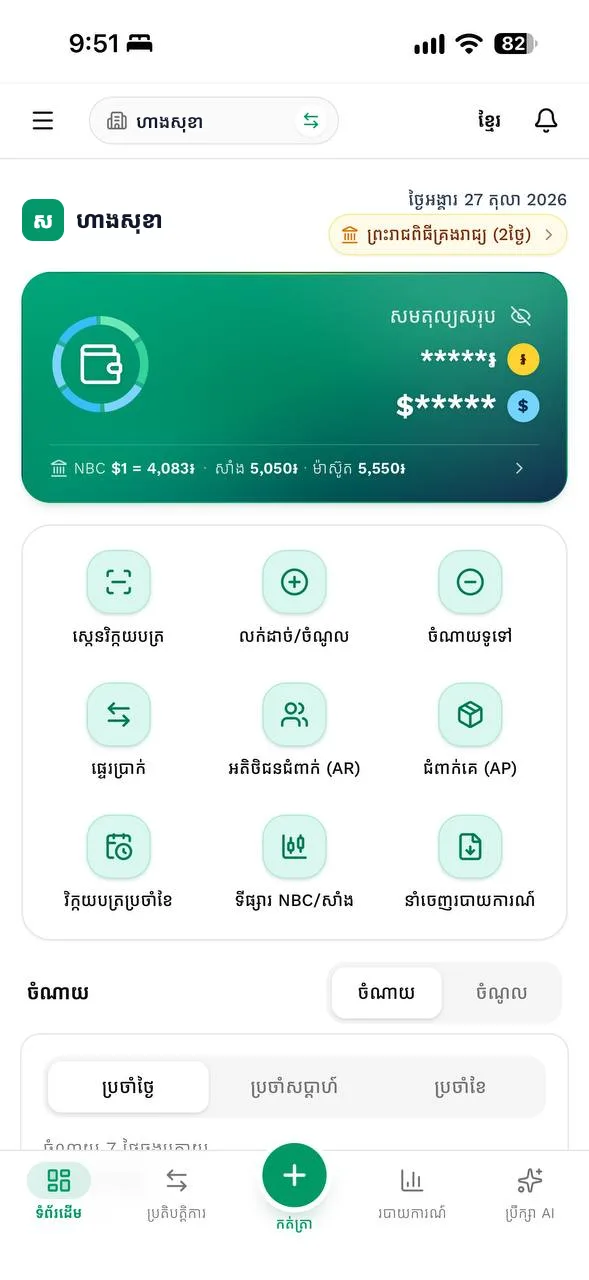
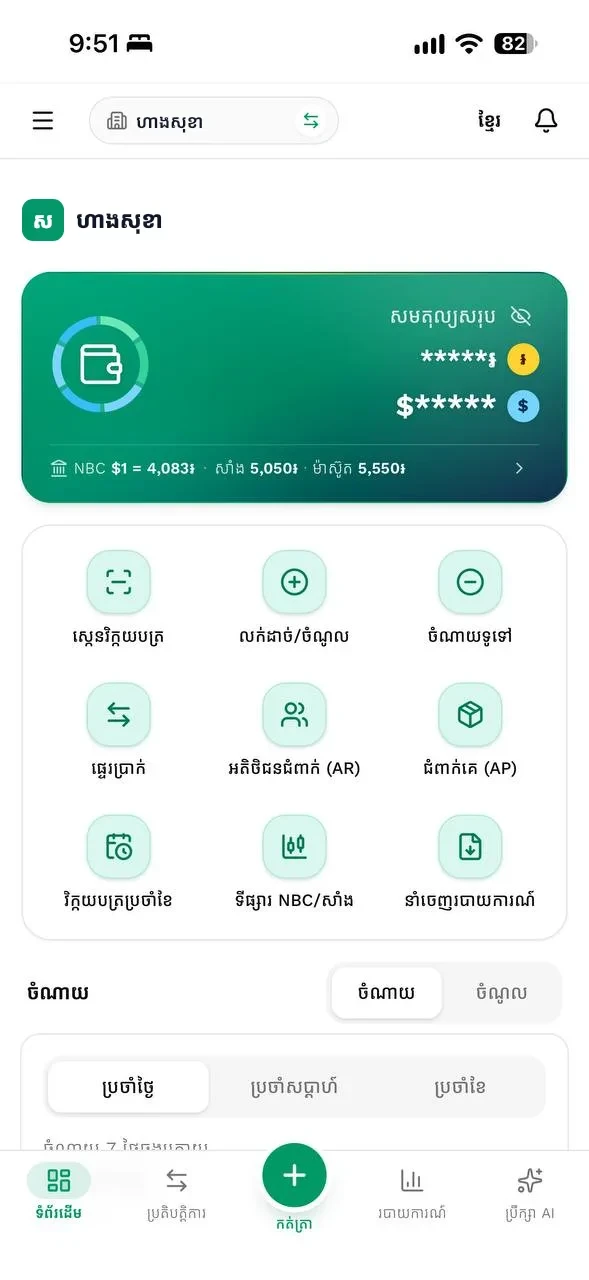
feat(website): the phone shows today's date in the visitor's own calendar and language (the screenshots' baked «27 តុលា» and the dated holiday chip erased), and the footer in three groups — the app, contact, follow us — with the copyright on its own line (founder, 28/10/2026)
Khmer: គេហទំព័រ៖ ទូរសព្ទបង្ហាញថ្ងៃខែបច្ចុប្បន្ន និង footer រៀបជាក្រុមស្អាត

Changed region(s): [[0.5501, 0.125, 0.9779, 0.2188]]

diff --git a/Website/index.html b/Website/index.html
@@ -74,6 +74,8 @@
               <div class="viewport">
               <img class="shot on" src="screen-business.webp" width="589" height="1280" alt="អេប លុយឆ្លាត — ទំព័រដើមអាជីវកម្ម" data-label="biz">
               <img class="shot" src="screen-personal.webp" width="589" height="1280" alt="អេប លុយឆ្លាត — ទំព័រដើមផ្ទាល់ខ្លួន" data-label="me" loading="lazy">
+              <!-- Today's date in the viewer's own calendar, where the app shows it (founder, 28/10/2026 — site.js) -->
+              <span class="ph-date" aria-hidden="true"></span>
               </div>
               <div class="ph-toast" aria-hidden="true">
                 <span class="dot">🔊</span>
@@ -350,14 +352,25 @@
         <img src="logo.png" alt="" width="36" height="36">
         <span><b>អេប លុយឆ្លាត</b><small>App Luy Chlat</small></span>
       </div>
-      <nav aria-label="Footer">
-        <a href="privacy.html" data-i="ft.privacy">ឯកជនភាព និងលក្ខខណ្ឌ</a>
-        <a href="https://app.luychlat.com/download" data-i="ft.download">ទាញយក</a>
-        <a href="https://t.me/LuyChlatCommunity" target="_blank" rel="noopener" data-i="ft.community">សហគមន៍ Telegram</a>
-        <a href="https://www.facebook.com/appluychlat" target="_blank" rel="noopener">Facebook</a>
-        <a href="https://t.me/luychlat_bot" target="_blank" rel="noopener">@luychlat_bot</a>
-        <a href="https://t.me/luychlat_support" target="_blank" rel="noopener" data-i="ft.support">ជំនួយ</a>
-        <a href="mailto:info@luychlat.com">info@luychlat.com</a>
+      <!-- Grouped like an international site's footer (founder, 28/10/2026 — «the footer is scattered») -->
+      <nav class="foot-cols" aria-label="Footer">
+        <div>
+          <h4 data-i="ft.colApp">អេប</h4>
+          <a href="https://app.luychlat.com/download" data-i="ft.download">ទាញយក</a>
+          <a href="https://app.luychlat.com" data-i="ft.open">ចូលប្រើ</a>
+          <a href="privacy.html" data-i="ft.privacy">ឯកជនភាព និងលក្ខខណ្ឌ</a>
+        </div>
+        <div>
+          <h4 data-i="ft.colContact">ទំនាក់ទំនង</h4>
+          <a href="https://t.me/luychlat_support" target="_blank" rel="noopener" data-i="ft.support">ជំនួយ</a>
+          <a href="mailto:info@luychlat.com">info@luychlat.com</a>
+        </div>
+        <div>
+          <h4 data-i="ft.colFollow">តាមដានយើង</h4>
+          <a href="https://www.facebook.com/appluychlat" target="_blank" rel="noopener">Facebook</a>
+          <a href="https://t.me/LuyChlatCommunity" target="_blank" rel="noopener" data-i="ft.community">សហគមន៍ Telegram</a>
+          <a href="https://t.me/luychlat_bot" target="_blank" rel="noopener">@luychlat_bot</a>
+        </div>
       </nav>
       <p class="copy">© 2026 App Luy Chlat · iBMS · <span data-i="ft.rights">រក្សាសិទ្ធិគ្រប់យ៉ាង</span></p>
     </div>
@@ -373,6 +386,7 @@
 
   <!-- Cloudflare Web Analytics (cookieless) — the website only, never the app -->
   <script defer="" src="https://static.cloudflareinsights.com/beacon.min.js" data-cf-beacon="{&quot;token&quot;: &quot;d414eab13d024a1aade4e9fc8f5ddf1f&quot;}"></script>
+
 
 
 

diff --git a/Website/en/index.html b/Website/en/index.html
@@ -74,6 +74,8 @@
               <div class="viewport">
               <img class="shot on" src="../screen-business.webp" width="589" height="1280" alt="អេប លុយឆ្លាត — ទំព័រដើមអាជីវកម្ម" data-label="biz">
               <img class="shot" src="../screen-personal.webp" width="589" height="1280" alt="អេប លុយឆ្លាត — ទំព័រដើមផ្ទាល់ខ្លួន" data-label="me" loading="lazy">
+              <!-- Today's date in the viewer's own calendar, where the app shows it (founder, 28/10/2026 — site.js) -->
+              <span class="ph-date" aria-hidden="true"></span>
               </div>
               <div class="ph-toast" aria-hidden="true">
                 <span class="dot">🔊</span>
@@ -350,14 +352,25 @@
         <img src="../logo.png" alt="" width="36" height="36">
         <span><b>អេប លុយឆ្លាត</b><small>App Luy Chlat</small></span>
       </div>
-      <nav aria-label="Footer">
-        <a href="../privacy.html" data-i="ft.privacy">Privacy and terms</a>
-        <a href="https://app.luychlat.com/download" data-i="ft.download">Download</a>
-        <a href="https://t.me/LuyChlatCommunity" target="_blank" rel="noopener" data-i="ft.community">Telegram community</a>
-        <a href="https://www.facebook.com/appluychlat" target="_blank" rel="noopener">Facebook</a>
-        <a href="https://t.me/luychlat_bot" target="_blank" rel="noopener">@luychlat_bot</a>
-        <a href="https://t.me/luychlat_support" target="_blank" rel="noopener" data-i="ft.support">Support</a>
-        <a href="mailto:info@luychlat.com">info@luychlat.com</a>
+      <!-- Grouped like an international site's footer (founder, 28/10/2026 — «the footer is scattered») -->
+      <nav class="foot-cols" aria-label="Footer">
+        <div>
+          <h4 data-i="ft.colApp">App</h4>
+          <a href="https://app.luychlat.com/download" data-i="ft.download">Download</a>
+          <a href="https://app.luychlat.com" data-i="ft.open">Open the app</a>
+          <a href="../privacy.html" data-i="ft.privacy">Privacy and terms</a>
+        </div>
+        <div>
+          <h4 data-i="ft.colContact">Contact</h4>
+          <a href="https://t.me/luychlat_support" target="_blank" rel="noopener" data-i="ft.support">Support</a>
+          <a href="mailto:info@luychlat.com">info@luychlat.com</a>
+        </div>
+        <div>
+          <h4 data-i="ft.colFollow">Follow us</h4>
+          <a href="https://www.facebook.com/appluychlat" target="_blank" rel="noopener">Facebook</a>
+          <a href="https://t.me/LuyChlatCommunity" target="_blank" rel="noopener" data-i="ft.community">Telegram community</a>
+          <a href="https://t.me/luychlat_bot" target="_blank" rel="noopener">@luychlat_bot</a>
+        </div>
       </nav>
       <p class="copy">© 2026 App Luy Chlat · iBMS · <span data-i="ft.rights">All rights reserved</span></p>
     </div>
@@ -373,6 +386,7 @@
 
   <!-- Cloudflare Web Analytics (cookieless) — the website only, never the app -->
   <script defer="" src="https://static.cloudflareinsights.com/beacon.min.js" data-cf-beacon="{&quot;token&quot;: &quot;d414eab13d024a1aade4e9fc8f5ddf1f&quot;}"></script>
+
 
 
 

diff --git a/Website/zh/index.html b/Website/zh/index.html
@@ -74,6 +74,8 @@
               <div class="viewport">
               <img class="shot on" src="../screen-business.webp" width="589" height="1280" alt="អេប លុយឆ្លាត — ទំព័រដើមអាជីវកម្ម" data-label="biz">
               <img class="shot" src="../screen-personal.webp" width="589" height="1280" alt="អេប លុយឆ្លាត — ទំព័រដើមផ្ទាល់ខ្លួន" data-label="me" loading="lazy">
+              <!-- Today's date in the viewer's own calendar, where the app shows it (founder, 28/10/2026 — site.js) -->
+              <span class="ph-date" aria-hidden="true"></span>
               </div>
               <div class="ph-toast" aria-hidden="true">
                 <span class="dot">🔊</span>
@@ -350,14 +352,25 @@
         <img src="../logo.png" alt="" width="36" height="36">
         <span><b>អេប លុយឆ្លាត</b><small>App Luy Chlat</small></span>
       </div>
-      <nav aria-label="Footer">
-        <a href="../privacy.html" data-i="ft.privacy">隐私与条款</a>
-        <a href="https://app.luychlat.com/download" data-i="ft.download">下载</a>
-        <a href="https://t.me/LuyChlatCommunity" target="_blank" rel="noopener" data-i="ft.community">Telegram 社区</a>
-        <a href="https://www.facebook.com/appluychlat" target="_blank" rel="noopener">Facebook</a>
-        <a href="https://t.me/luychlat_bot" target="_blank" rel="noopener">@luychlat_bot</a>
-        <a href="https://t.me/luychlat_support" target="_blank" rel="noopener" data-i="ft.support">客服</a>
-        <a href="mailto:info@luychlat.com">info@luychlat.com</a>
+      <!-- Grouped like an international site's footer (founder, 28/10/2026 — «the footer is scattered») -->
+      <nav class="foot-cols" aria-label="Footer">
+        <div>
+          <h4 data-i="ft.colApp">应用</h4>
+          <a href="https://app.luychlat.com/download" data-i="ft.download">下载</a>
+          <a href="https://app.luychlat.com" data-i="ft.open">打开应用</a>
+          <a href="../privacy.html" data-i="ft.privacy">隐私与条款</a>
+        </div>
+        <div>
+          <h4 data-i="ft.colContact">联系我们</h4>
+          <a href="https://t.me/luychlat_support" target="_blank" rel="noopener" data-i="ft.support">客服</a>
+          <a href="mailto:info@luychlat.com">info@luychlat.com</a>
+        </div>
+        <div>
+          <h4 data-i="ft.colFollow">关注我们</h4>
+          <a href="https://www.facebook.com/appluychlat" target="_blank" rel="noopener">Facebook</a>
+          <a href="https://t.me/LuyChlatCommunity" target="_blank" rel="noopener" data-i="ft.community">Telegram 社区</a>
+          <a href="https://t.me/luychlat_bot" target="_blank" rel="noopener">@luychlat_bot</a>
+        </div>
       </nav>
       <p class="copy">© 2026 App Luy Chlat · iBMS · <span data-i="ft.rights">版权所有</span></p>
     </div>
@@ -373,6 +386,7 @@
 
   <!-- Cloudflare Web Analytics (cookieless) — the website only, never the app -->
   <script defer="" src="https://static.cloudflareinsights.com/beacon.min.js" data-cf-beacon="{&quot;token&quot;: &quot;d414eab13d024a1aade4e9fc8f5ddf1f&quot;}"></script>
+
 
 
 

diff --git a/Website/site.css b/Website/site.css
@@ -300,12 +300,22 @@ details a { color: var(--brand); }
 
 /* Footer */
 .foot { padding: 36px 0 calc(36px + env(safe-area-inset-bottom)); border-top: 1px solid var(--line); }
-.foot-in { display: grid; gap: 18px; }
-.foot nav { display: flex; flex-wrap: wrap; gap: 8px 20px; }
+.foot-in { display: grid; gap: 24px; }
+/* Three groups (founder, 28/10/2026 — «scattered»): the app, contact, follow us; the copyright its own line below. */
+.foot-cols { display: grid; grid-template-columns: repeat(2, minmax(0, 1fr)); gap: 20px 24px; }
+.foot-cols div { display: grid; align-content: start; gap: 2px; }
+.foot-cols h4 { margin: 0 0 4px; font-size: .78rem; font-weight: 700; letter-spacing: .06em; text-transform: uppercase; color: var(--ink); }
 .foot nav a { color: var(--muted); text-decoration: none; min-height: 32px; display: inline-flex; align-items: center; }
 .foot nav a:hover { color: var(--brand); }
+.foot .copy { margin: 0; padding-top: 18px; border-top: 1px solid var(--line); }
+/* The other pages' short footer (a few links in a row). */
+.foot nav:not(.foot-cols) { display: flex; flex-wrap: wrap; gap: 8px 20px; align-content: start; }
 .copy { color: var(--muted); font-size: .85rem; }
-@media (min-width: 900px) { .foot-in { grid-template-columns: auto 1fr auto; align-items: center; } .foot nav { justify-content: center; } }
+@media (min-width: 900px) {
+  .foot-in { grid-template-columns: 1fr 2fr; align-items: start; }
+  .foot-cols { grid-template-columns: repeat(3, minmax(0, 1fr)); }
+  .foot .copy { grid-column: 1 / -1; }
+}
 
 /* Legal pages */
 .doc { padding: 40px 0 72px; }
@@ -372,6 +382,9 @@ details a { color: var(--brand); }
 .homebar::after { content: ""; position: absolute; left: 50%; top: 9px; width: 34%; height: 4px; margin-left: -17%; border-radius: 4px; background: #111827; opacity: .8; }
 .shot { position: absolute; inset: 0; width: 100%; height: 100%; object-fit: cover; object-position: top; opacity: 0; transition: opacity .8s ease; }
 .shot.on { opacity: 1; }
+/* Today's date, where the app writes it (the screenshots' own was erased): right-aligned under the header. */
+.viewport { container-type: inline-size; }
+.ph-date { position: absolute; z-index: 1; top: 14.25%; right: 3.6%; font: 500 3.35cqw/1.2 "Kantumruy Pro", "Plus Jakarta Sans", sans-serif; color: #374151; white-space: nowrap; }
 .screen.shots .ph-toast { position: absolute; left: 10px; right: 10px; bottom: 14%; z-index: 2; font-size: 12px; }
 .shot-tabs { display: flex; gap: 8px; }
 .shot-tabs span { padding: 5px 12px; border-radius: 999px; font-size: .85rem; color: var(--muted); background: var(--surface); border: 1px solid var(--line); transition: all .3s ease; }

diff --git a/Website/site.js b/Website/site.js
@@ -19,10 +19,28 @@
     });
     document.querySelectorAll("[data-lang]").forEach(function (b) { b.setAttribute("aria-pressed", String(b.getAttribute("data-lang") === lang)); });
     if (window.PAGE_TITLES) document.title = window.PAGE_TITLES[lang] || titles.km;
+    phoneDate(lang);
     setPeriod(period);
   }
 
   var period = "m";
+  // The phone shows today's date in the viewer's own calendar, as the app does (founder, 28/10/2026): «ថ្ងៃពុធ 28 តុលា
+  // 2026» / "Wednesday, 28 October 2026" / "2026年10月28日 星期三" — 0-9 digits, like the app.
+  function phoneDate(lang) {
+    var el = document.querySelector(".ph-date");
+    if (!el) return;
+    var d = new Date();
+    var KM_DAYS = ["អាទិត្យ", "ចន្ទ", "អង្គារ", "ពុធ", "ព្រហស្បតិ៍", "សុក្រ", "សៅរ៍"];
+    var KM_MONTHS = ["មករា", "កុម្ភៈ", "មីនា", "មេសា", "ឧសភា", "មិថុនា", "កក្កដា", "សីហា", "កញ្ញា", "តុលា", "វិច្ឆិកា", "ធ្នូ"];
+    var EN_DAYS = ["Sunday", "Monday", "Tuesday", "Wednesday", "Thursday", "Friday", "Saturday"];
+    var EN_MONTHS = ["January", "February", "March", "April", "May", "June", "July", "August", "September", "October", "November", "December"];
+    var ZH_DAYS = ["星期日", "星期一", "星期二", "星期三", "星期四", "星期五", "星期六"];
+    el.textContent = lang === "en" ? EN_DAYS[d.getDay()] + ", " + d.getDate() + " " + EN_MONTHS[d.getMonth()] + " " + d.getFullYear()
+      : lang === "zh" ? d.getFullYear() + "年" + (d.getMonth() + 1) + "月" + d.getDate() + "日 " + ZH_DAYS[d.getDay()]
+      : "ថ្ងៃ" + KM_DAYS[d.getDay()] + " " + d.getDate() + " " + KM_MONTHS[d.getMonth()] + " " + d.getFullYear();
+  }
+  phoneDate(document.documentElement.lang || "km");
+
   function setPeriod(p) {
     period = p;
     document.querySelectorAll("[data-period]").forEach(function (b) { b.setAttribute("aria-pressed", String(b.getAttribute("data-period") === p)); });

diff --git a/Website/i18n.js b/Website/i18n.js
@@ -113,6 +113,10 @@ window.SITE_T = {
   "tr.c5": "Business and personal, always apart.",
   "tr.c6": "Encrypted data — only you and the people you invite can see it.",
   "tr.c7": "Export your data or delete your account, any time.",
+  "ft.colApp": "App",
+  "ft.open": "Open the app",
+  "ft.colContact": "Contact",
+  "ft.colFollow": "Follow us",
   "tr.readyT": "When something goes wrong, we're ready:",
   "tr.r1": "Phone lost or broken? Tap «🚨 My phone is lost» once: every other device is signed out and Telegram is unlinked. Your data stays safe.",
   "tr.r2": "Your data is backed up every night.",
@@ -292,6 +296,10 @@ window.SITE_T = {
   "tr.c5": "生意和个人，始终分开。",
   "tr.c6": "数据加密，只有您和您邀请的人能看到。",
   "tr.c7": "随时导出数据或删除账户。",
+  "ft.colApp": "应用",
+  "ft.open": "打开应用",
+  "ft.colContact": "联系我们",
+  "ft.colFollow": "关注我们",
   "tr.readyT": "出现问题时，我们早有准备：",
   "tr.r1": "手机丢了或坏了？点一下「🚨 我的手机丢了」：其他设备全部退出，Telegram 解除绑定。数据不会丢失。",
   "tr.r2": "每晚自动备份数据。",
